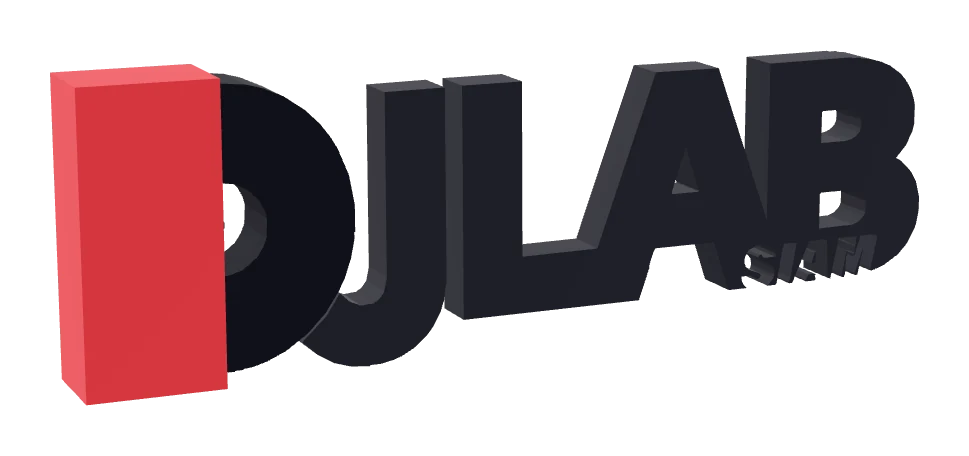
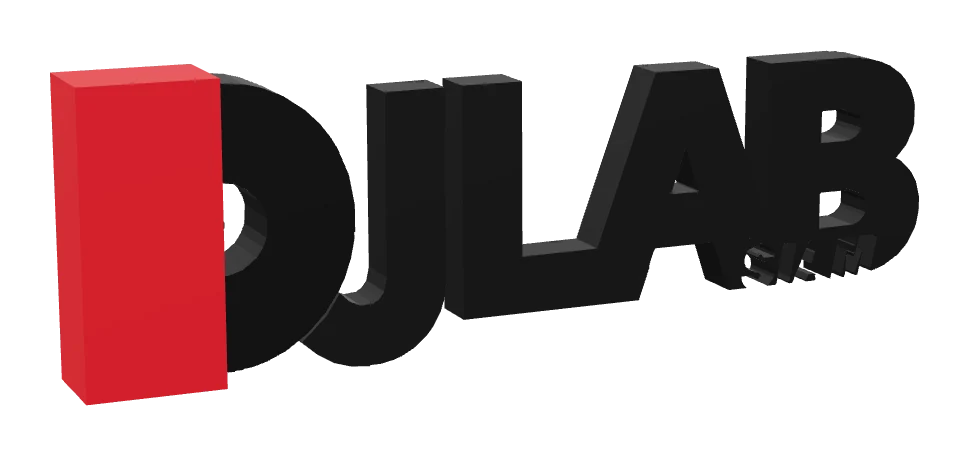
แก้โลโก้ 3D ใน AR ไม่มีสี (ขาวล้วน): เปลี่ยนจาก vertex color เป็นวัสดุ PBR จริงพร้อมค่าสี (แปลง sRGB→linear) และใส่ normal ให้แสงตกถูก — iOS Quick Look / Android Scene Viewer ไม่อ่าน vertex color · อัปเดตภาพโปสเตอร์

diff --git a/tools/make_logo_3d.py b/tools/make_logo_3d.py
@@ -46,6 +46,11 @@ def polys(mask, simplify=0.8, min_area=6):
     return shapes
 
 
+def _lin(c):   # glTF baseColorFactor is LINEAR; the colours above are sRGB 0-255
+    c = c / 255.0
+    return c / 12.92 if c <= 0.04045 else ((c + 0.055) / 1.055) ** 2.4
+
+
 def mesh_for(mask, depth, z0, color):
     parts = []
     for shp in polys(mask):
@@ -59,7 +64,11 @@ def mesh_for(mask, depth, z0, color):
     if not parts:
         return None
     m = trimesh.util.concatenate(parts)
-    m.visual.face_colors = np.tile(np.array(color, dtype=np.uint8), (len(m.faces), 1))
+    m.unmerge_vertices()          # hard edges: every face gets its own vertices and a flat normal
+    _ = m.vertex_normals          # cache normals so they are written to the GLB (needed for lighting in AR viewers)
+    # real PBR material (baseColorFactor), NOT vertex colours: iOS Quick Look / Android Scene Viewer ignore vertex colours and render white
+    m.visual = trimesh.visual.TextureVisuals(material=trimesh.visual.material.PBRMaterial(
+        baseColorFactor=[_lin(c) for c in color[:3]] + [1.0], metallicFactor=0.0, roughnessFactor=0.8, doubleSided=True))
     return m
 
 
